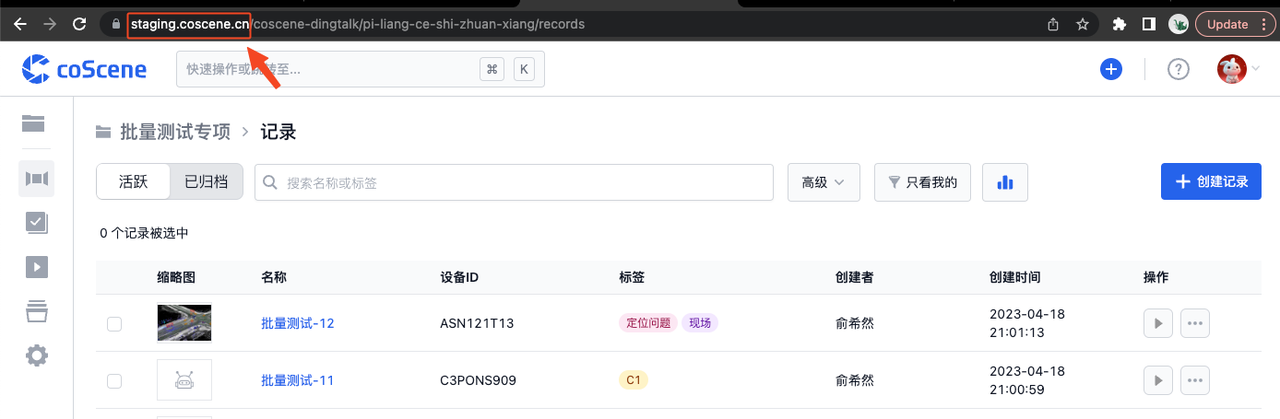
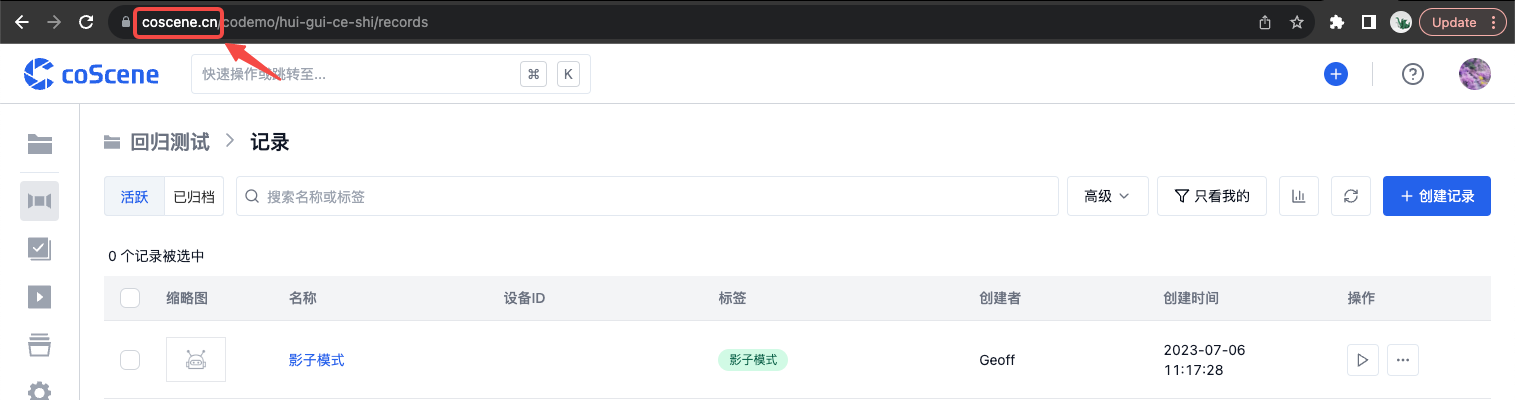
Edit your domain (#35)
* Update 5-run.md

* Add files via upload

* Add files via upload

* Add files via upload

* Add files via upload

diff --git a/docs/4-recipes/8-regression/5-run.md b/docs/4-recipes/8-regression/5-run.md
@@ -85,7 +85,7 @@ sidebar_position: 5
 
    其中各参数说明如下：
 
-   - `endpoint` 中 `${YOUR_DOMAIN}` 需替换成实际的网站地址：
+   - `endpoint` 中 `${YOUR_DOMAIN}` 需替换成实际的网站地址。如下图的网址，`${YOUR_DOMAIN}` 为 `api.coscene.cn`
 
      ![run-5](../img/cli-1.png)
 
